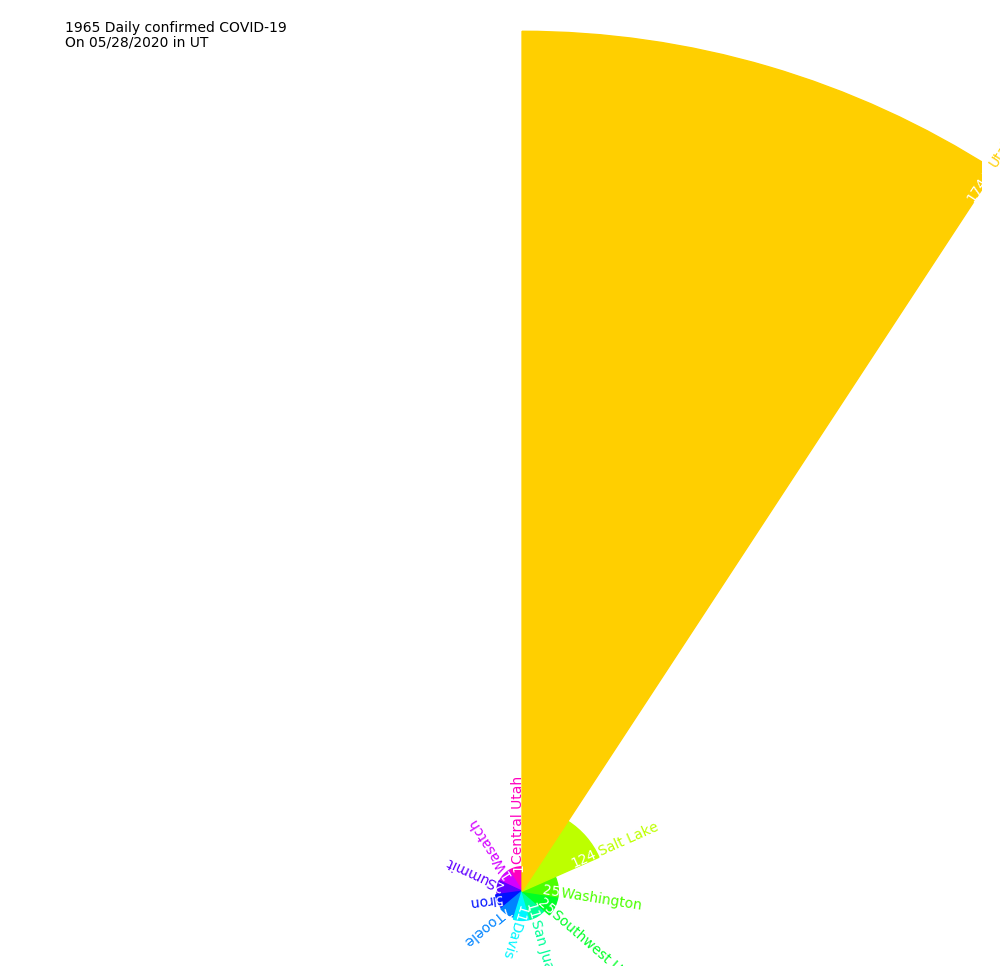
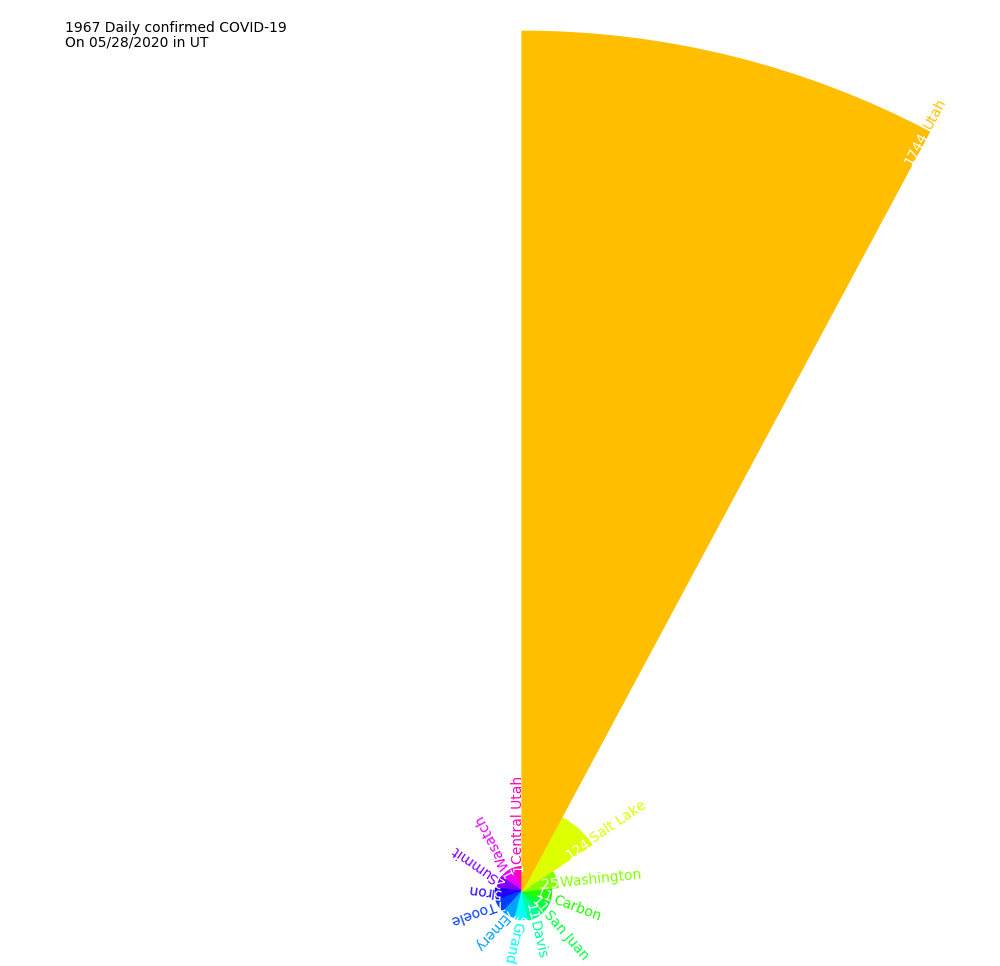
parse se of UT

Changed region(s): [[0.589, 0.0932, 1.0, 0.8075], [0.434, 0.8075, 0.651, 1.0]]

diff --git a/ut/dataGrabUt44.py b/ut/dataGrabUt44.py
@@ -136,6 +136,13 @@ class dataGrabUT(object):
                 page_content = file.read()
         else: return []
         lst_data = lst_data[0:-1]  # remove total row
+        lst_data_sw = []
+        # reset subtotal of SW
+        for a_item in lst_data:
+            if('Southwest Utah' in a_item[0]):
+                lst_data_sw.append(['Southwest Utah', 0, a_item[2]])
+            else:
+                lst_data_sw.append(a_item)
 
         c_tree = html.fromstring(page_content)
         print('    look for updated date and county data')
@@ -155,15 +162,15 @@ class dataGrabUT(object):
                         county_num = (l_detail3[1].split(' ')[1])
                         county_num = re.sub("[^0-9]", "", county_num)
                         print('      data:', county_name, int(county_num) )
-                        lst_data.append([county_name, county_num, 0])
+                        lst_data_sw.append([county_name, county_num, 0])
                 break
         # calculate total
-        xx = list(lst_data[:])
+        xx = list( sorted(lst_data_sw) )
         arr_data_all = np.array(xx).T        
         total_confirmed=(sum(map(int, arr_data_all[1])))
         total_death=(sum(map(int, arr_data_all[2])))
-        lst_data.append(['Total', total_confirmed, total_death])
-        return lst_data
+        lst_data_sw.append(['Total', total_confirmed, total_death])
+        return lst_data_sw
     # southeast counties
     def open4WebsiteSeu(self, fRaw, lst_data):	# https://www.seuhealth.com/covid-19
         csv_url = self.l_state_config[5][2]
@@ -179,6 +186,14 @@ class dataGrabUT(object):
             with open(fRaw, 'r') as file:
                 page_content = file.read()
         else: return []
+        lst_data = lst_data[0:-1]  # remove total row
+        lst_data_se = []
+        # reset subtotal of SE
+        for a_item in lst_data:
+            if('Southeast Utah' in a_item[0]):
+                lst_data_se.append(['Southeast Utah', 0, a_item[2]])
+            else:
+                lst_data_se.append(a_item)
 
         c_tree = html.fromstring(page_content)
         print('    look for updated date')
@@ -188,30 +203,29 @@ class dataGrabUT(object):
                 print('      updated date', se_data)
                 break
         print('    look for county data')
-        se_dates = c_tree.xpath('//span/text()')
-        print (')))))))))))))))))))))))))))',se_dates)
+        se_dates = c_tree.xpath('//h3[@style="font-size:28px; text-align:center;"]/text()')
+        l_county_cases = []
         for se_data in se_dates:
-            #se_detail = se_data.find('Washington County')
-            se_detail = se_dates[['Washingto County', 'Utah']]
-
-            #se_detail = sedetail.append['Washingto County': ]
-            print ('**********&{&&&&&&&&&&*((((((((((',se_detail)
-            if('TOTAL case counts' in se_data):
-                l_detail1 = se_detail.split('.')
-                print('   *******************************   updated date', l_detail1[0])
-                l_detail2 = l_detail1[2].split('\n')
-                for a_county in l_detail2:
-                    l_detail3 = a_county.split(':')
-                    if(len(l_detail3) > 1): 
-                        if(not 'County' in l_detail3[0]): continue
-                        county_name = l_detail3[0].replace(' County', '')
-                        county_num = (l_detail3[1].split(' ')[1])
-                        county_num = re.sub("[^0-9]", "", county_num)
-                        #print('      data:', county_name, int(county_num) )
-                        lst_data.append([county_name, county_num, 0])
-                print('    county case,', se_data)
-                break
-        return lst_data
+            if(se_data.isdigit()):
+                #print('      county number:', se_data)
+                l_county_cases.append(['', int(se_data), 0])
+        c_index = 0
+        se_dates = c_tree.xpath('//span[@style="text-decoration:underline;"]/text()')
+        for se_data in se_dates:
+            if(' County' in se_data):
+                #print('      county names:', se_data)
+                l_county_cases[c_index][0] = se_data.split(' ')[0]
+                print('      data:', l_county_cases[c_index])
+                lst_data_se.append(l_county_cases[c_index])
+                c_index += 1
+                if(c_index >= len(l_county_cases)): break
+        # calculate total
+        xx = list( sorted(lst_data_se) )
+        arr_data_all = np.array(xx).T        
+        total_confirmed=(sum(map(int, arr_data_all[1])))
+        total_death=(sum(map(int, arr_data_all[2])))
+        lst_data_se.append(['Total', total_confirmed, total_death])
+        return lst_data_se
     
     ## paser data Ut
     def parseData(self, name_file):

diff --git a/predictionviz22.py b/predictionviz22.py
@@ -181,6 +181,7 @@ class predictionViz(object):
         day_mmdd = day_mmdd[preDay:]    # postDay   
         #if(self.state_name in 'MI'): data[-2] = data[-1] * 1.15 # updated on 4/12/2020
         if(len(data) < 2): return False
+        print(' lst_data_daily', data)
         days = np.arange(0.0, len(data), 1.0)
         popt, pcov = curve_fit(self.SIR, days, data)
         print(' contact parameter, recovery rate:', popt)
